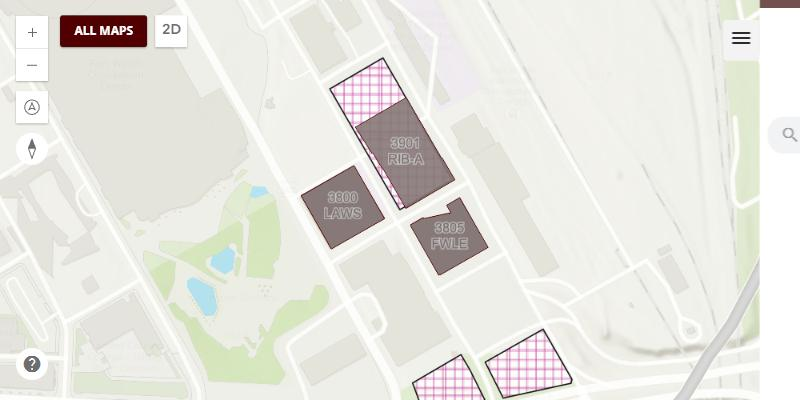
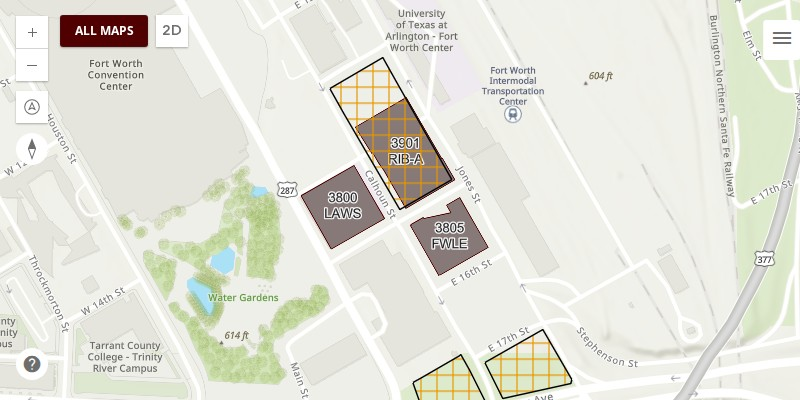
chore(aggiemap-angular): Retake the Fort Worth Law and Houston Space Institute campus tiles with the orange hatch (#2609)

diff --git a/docs/releases/unreleased/2533-campus-tiles.md b/docs/releases/unreleased/2533-campus-tiles.md
@@ -1,0 +1,23 @@
+---
+issue: 2533
+title: The Fort Worth Law and Houston Space Institute pictures show the construction as the maps draw it
+testOnDev: |
+  | Campus pictures: Fort Worth Law and Houston Space Institute ([#2533](https://github.com/TamuGeoInnovation/Tamu.GeoInnovation.js.monorepo/issues/2533)) | [Campus Maps](https://dev.aggiemap.tamu.edu/all-maps/campus), and [All Maps](https://dev.aggiemap.tamu.edu/all-maps) at phone width | The Fort Worth Law School and Houston Space Institute pictures show construction as an orange grid with a black outline, not pink, the same as each map draws it when opened. The other eight pictures are unchanged |
+---
+
+### The two campus pictures show construction as the maps draw it
+
+The pictures of the Fort Worth Law School and Houston Space Institute maps, on Campus Maps and in the Campus Maps
+part of All Maps, still showed construction as the pink grid the maps drew when the pictures were taken. The maps now
+draw it with the main map's orange hatch
+([#2532](https://github.com/TamuGeoInnovation/Tamu.GeoInnovation.js.monorepo/issues/2532), at 60% so a building number
+reads through it, [#2578](https://github.com/TamuGeoInnovation/Tamu.GeoInnovation.js.monorepo/issues/2578)), so the
+two pictures are retaken from dev, as a production visitor sees it, with the same view as before
+([#2533](https://github.com/TamuGeoInnovation/Tamu.GeoInnovation.js.monorepo/issues/2533)).
+
+| | Before | After |
+| --- | --- | --- |
+| Fort Worth Law School | ![The pink grid](../screenshots/2533-campus-tiles/before-fort-worth-law.jpg) | ![The orange hatch](../screenshots/2533-campus-tiles/after-fort-worth-law.jpg) |
+| Houston Space Institute | ![The pink grid](../screenshots/2533-campus-tiles/before-houston-space-institute.jpg) | ![The orange hatch](../screenshots/2533-campus-tiles/after-houston-space-institute.jpg) |
+| At the sizes the pages show them | | ![Old and new at 287 and 365 pixels wide](../screenshots/2533-campus-tiles/tile-size-compare.png) |
+| On Campus Maps | | ![The Campus Maps page with the new Fort Worth picture](../screenshots/2533-campus-tiles/after-campus-page.png) |
